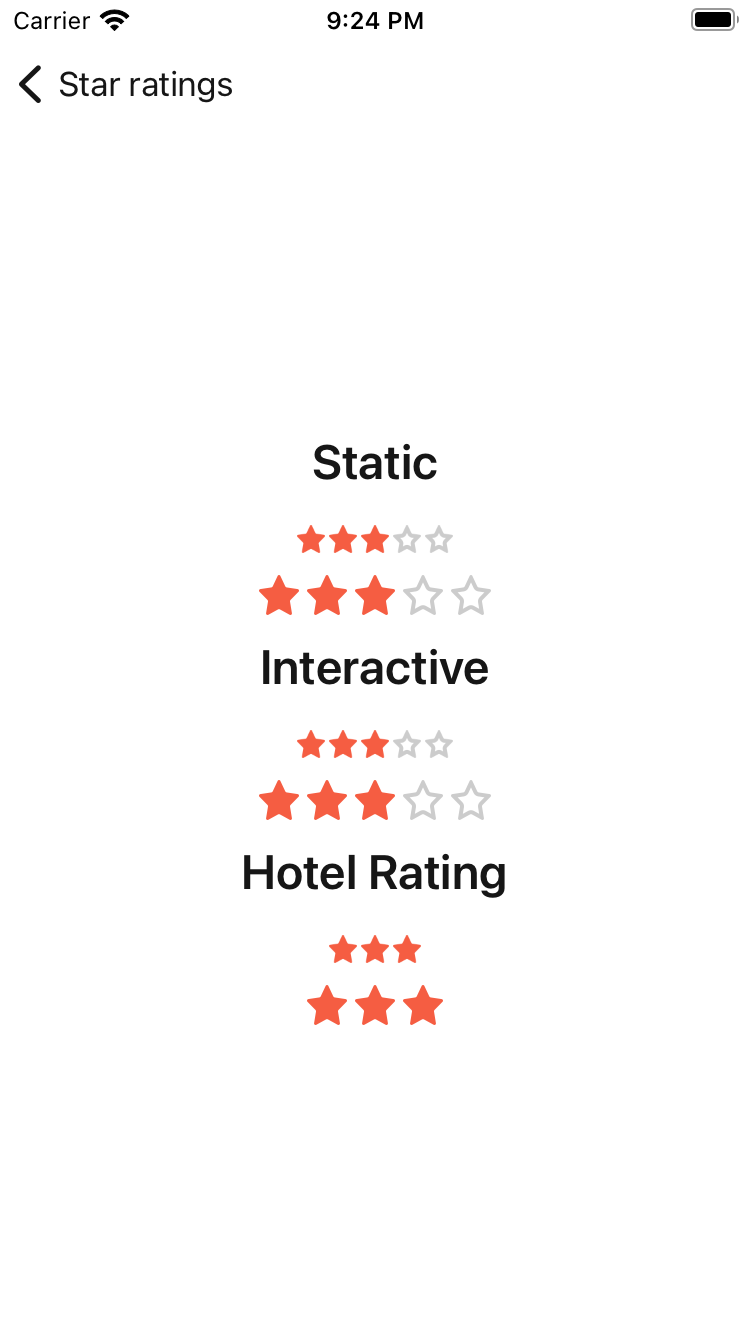
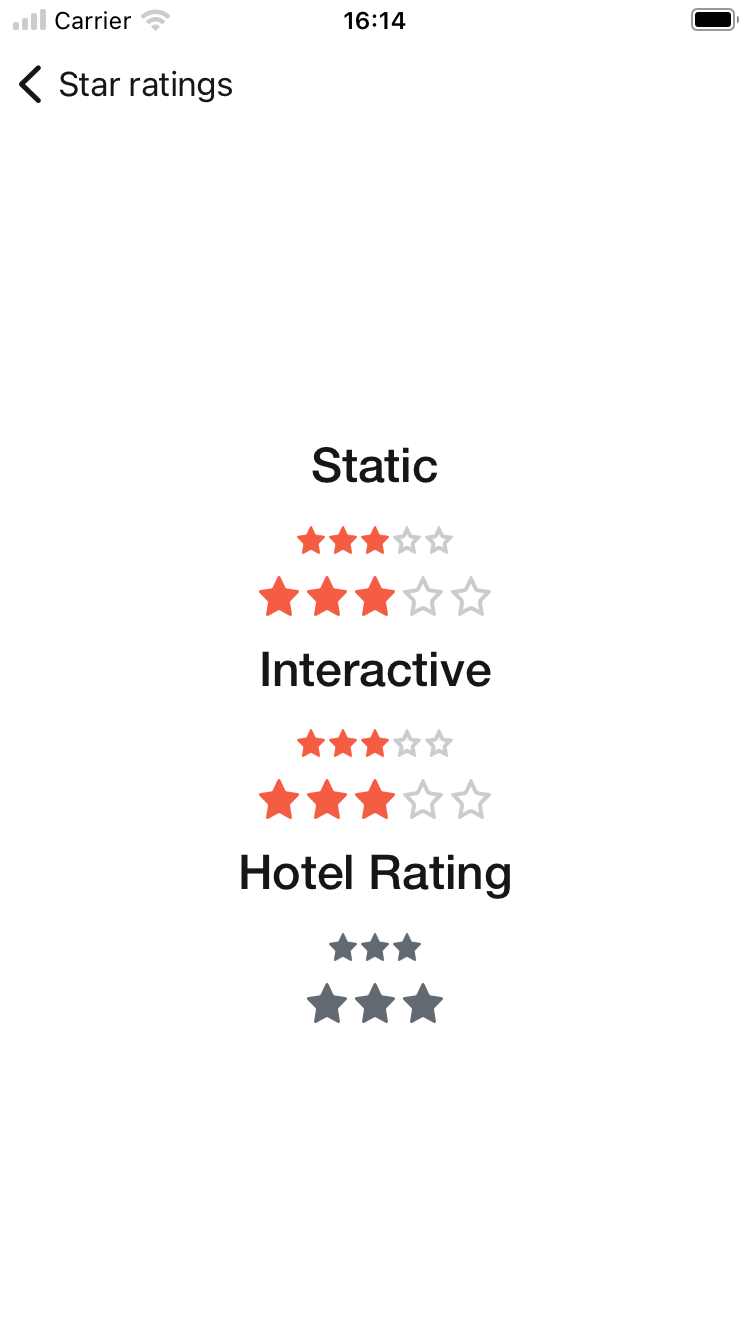
Update color for BPKHotelStarRating

diff --git a/Backpack-SwiftUI/StarRating/Classes/BPKHotelStarRating.swift b/Backpack-SwiftUI/StarRating/Classes/BPKHotelStarRating.swift
@@ -39,7 +39,8 @@ public struct BPKHotelStarRating: View {
     public var body: some View {
         HStack(spacing: 0) {
             ForEach(0..<rating, id: \.self) { _ in
-                BPKStarView(type: .full, size: size.starSize)
+                BPKIconView(.star, size: size.starSize)
+                    .foregroundColor(.textSecondaryColor)
                     .accessibilityHidden(true)
             }
         }
